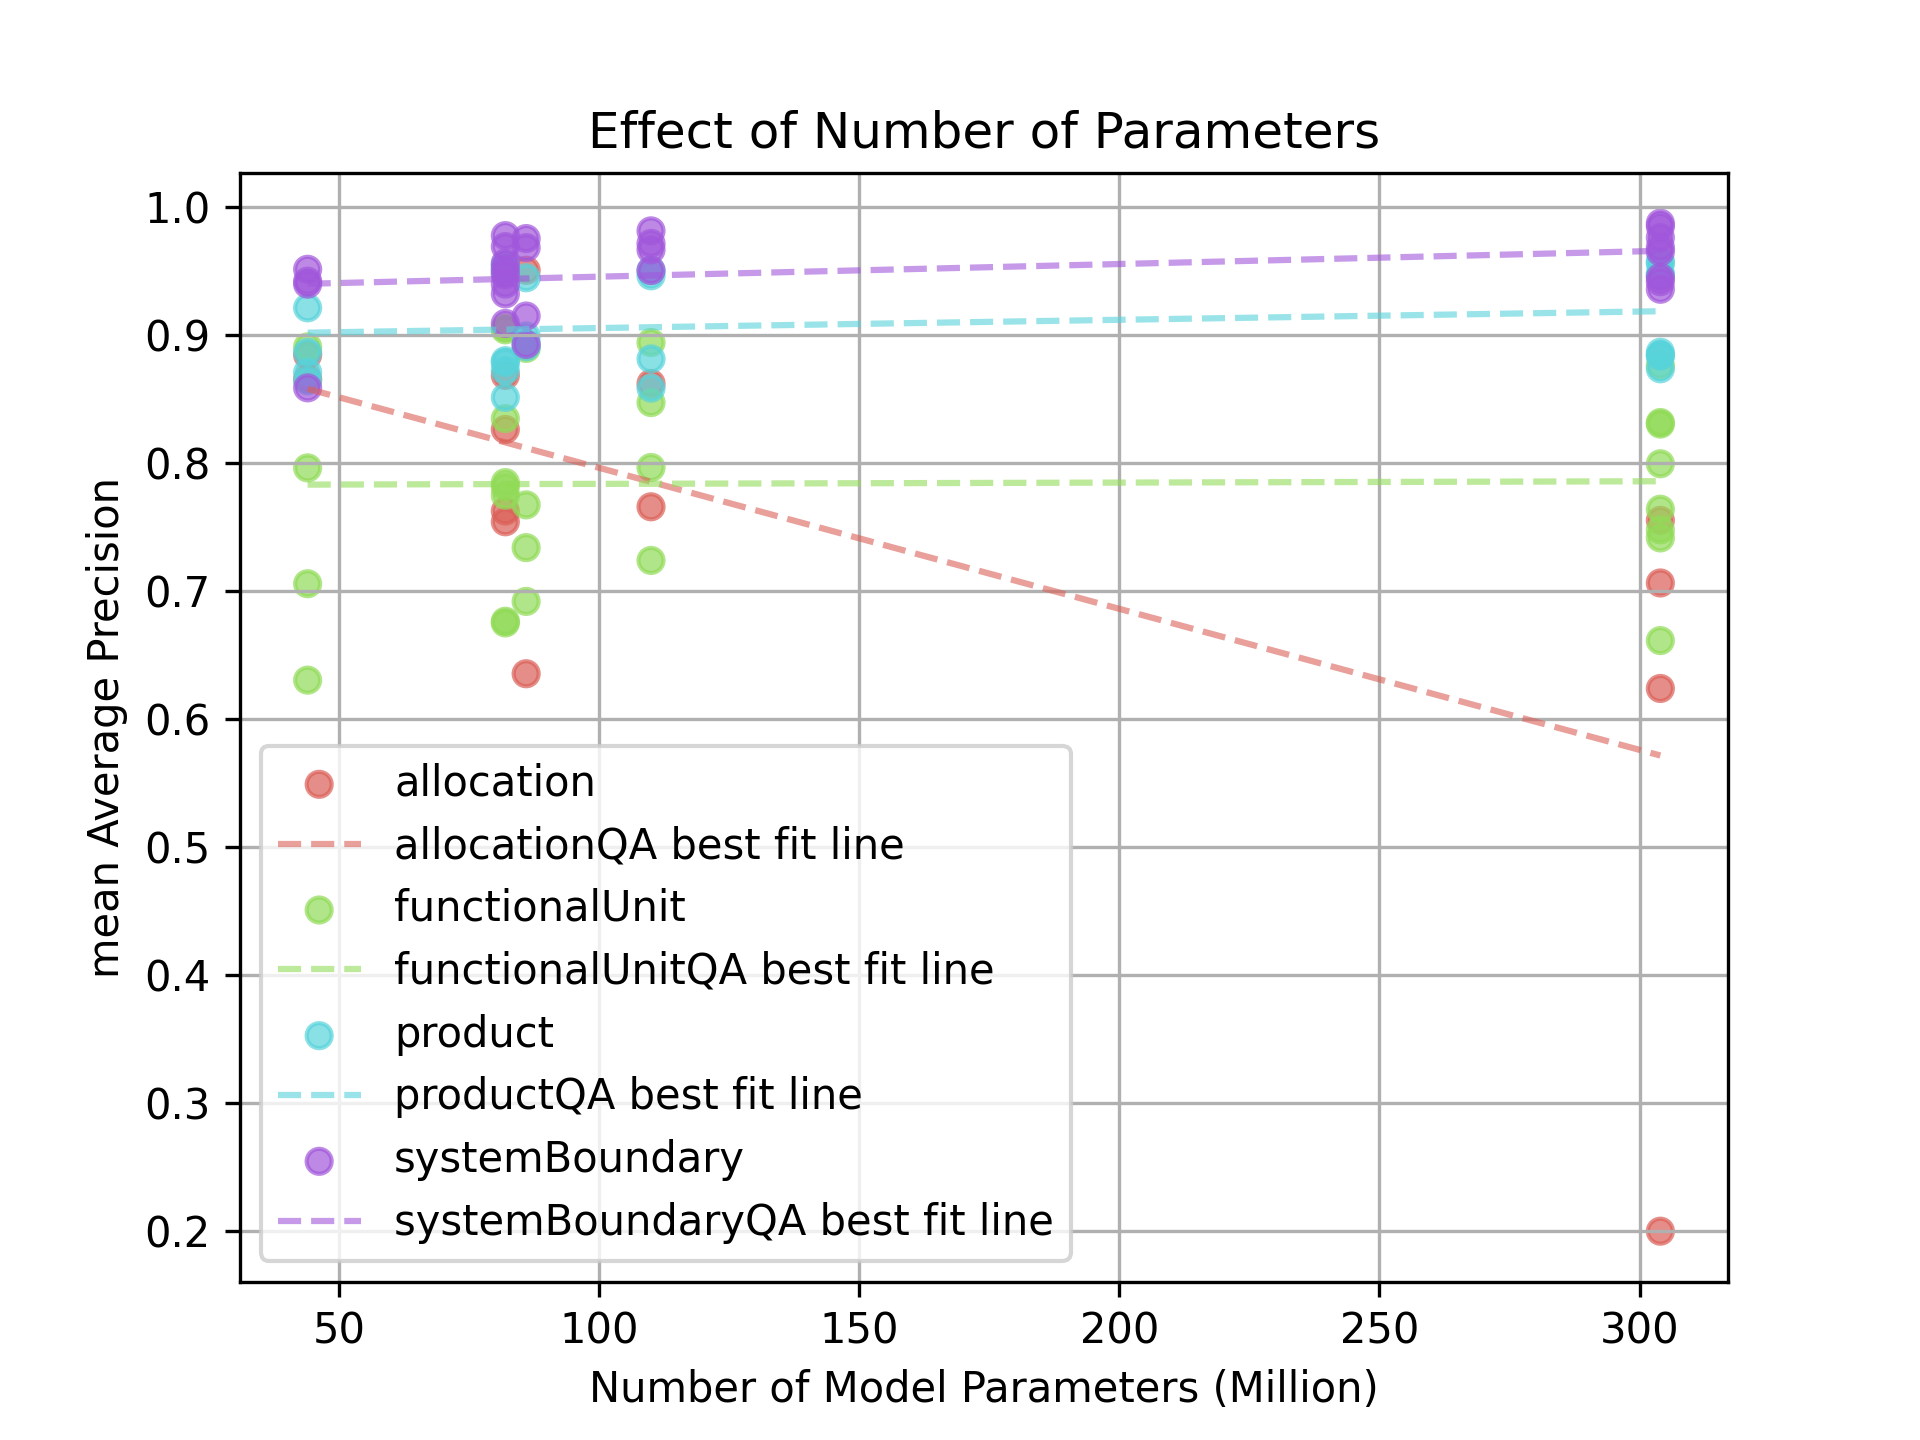
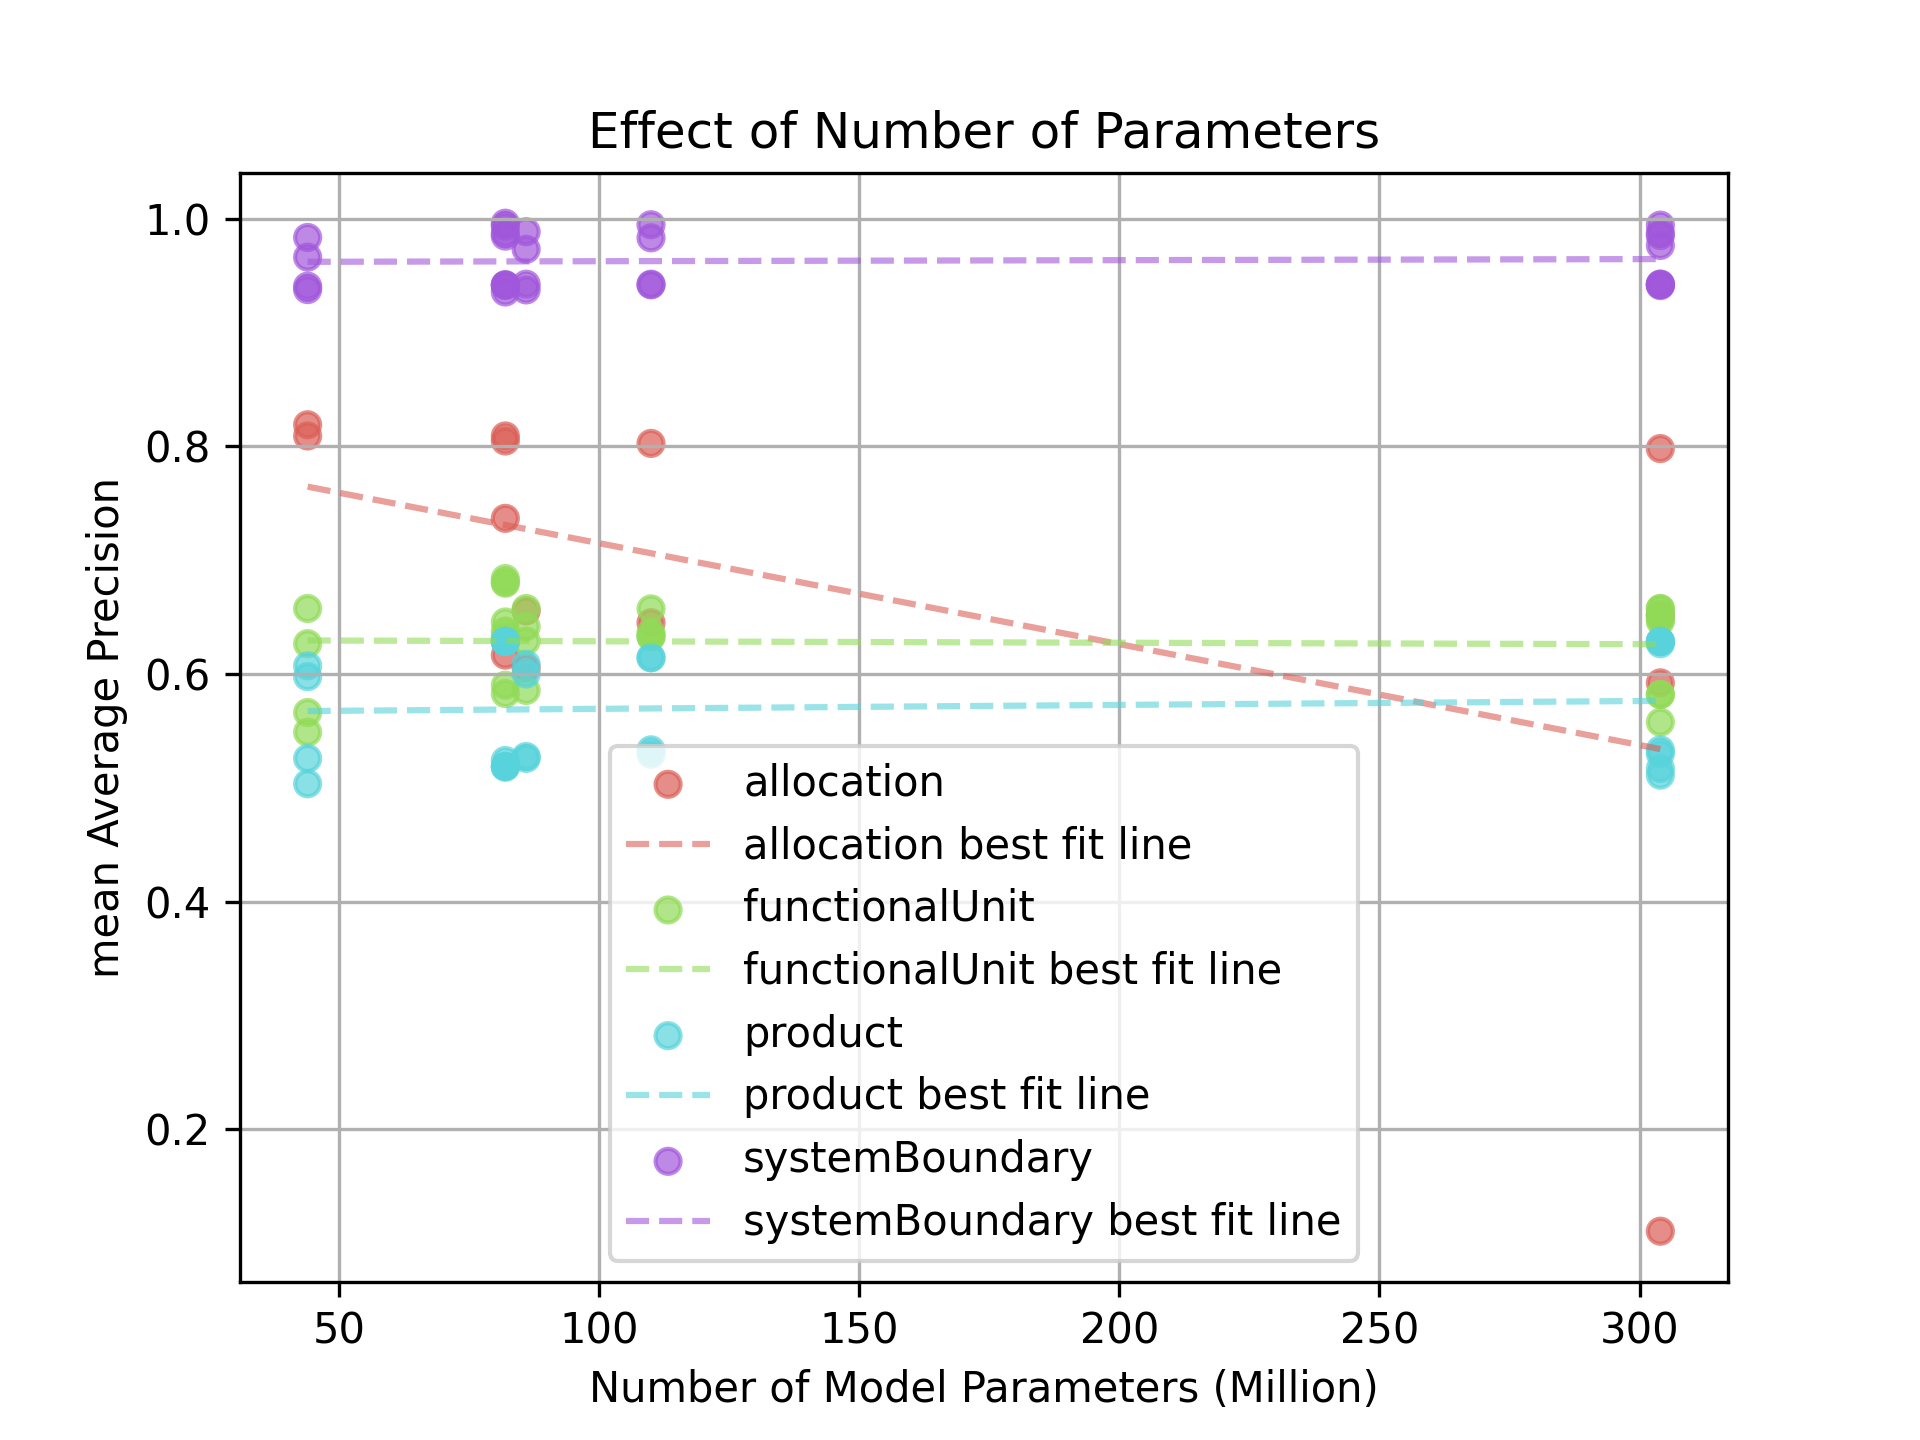
update num params precision plots

diff --git a/data_analysis.py b/data_analysis.py
@@ -23,11 +23,11 @@ def main():
     # prediction_threshold()
 
     # plot number of labels versus precision for each of the four categories
-    label_precision()
-    #parameter_precision()
+    # label_precision()
+    # parameter_precision()
 
     # collate errors for each dataset based on RAG
-    #collect_rag_error_rates()
+    collect_rag_error_rates()
 
     # identify occurence of errors and the extent to which models and ground truths agree
     #inter_reviewer_alignment()
@@ -73,7 +73,6 @@ def prediction_threshold():
         :return: N/A
         """
     root_directory = Path("./data/qa_dataset/results")
-    mAP_df = pd.DataFrame()
     mWP_df = pd.DataFrame()
     mWP_csv_df = pd.DataFrame()
 
@@ -97,23 +96,6 @@ def prediction_threshold():
         results_df["RAG"] = rag
         # mAP_results_df = results_df.copy(deep=True)
         mWP_results_df = results_df.copy(deep=True)
-
-        # # store calculations in lists
-        # mAP_scores = []
-        # preds_logits = data['logits'].apply(
-        #     lambda x: [(1 / (1 + np.exp(-item))) for item in x])
-        # preds_logits = np.array(preds_logits.tolist())
-        #
-        # # if there are no positive class in y_true, then precision is undefined and not included in the mean calculation
-        # for i in range(len(ground_truth[0])):
-        #     if max(ground_truth[:, i]) > 0:
-        #         ap = average_precision_score(ground_truth[:, i], preds_logits[:, i])
-        #     else:
-        #         ap = np.nan
-        #     mAP_scores.append(ap)
-        # mAP_results_df["mAP"] = np.nanmean(mAP_scores)
-        # # assign data to appropriate dataframe if there is data
-        # mAP_df = pd.concat([mAP_df, mAP_results_df]).copy(deep=True)
 
         # calculate effects of precision threshold for the BERT model in no RAG
         P_results = []
@@ -521,54 +503,15 @@ def collect_rag_error_rates():
     recalculated = pd.DataFrame()
 
     # Use rglob to recursively find all files matching the pattern
-    for file_path in root_directory.rglob('errors.csv'):
-        rag = "no rag" if "no" in str(file_path).split("_") else "rag"
-        dataset_type = "original" if "original" in str(file_path).split("_") else "recalculated"
-
-        # read in data and extract label precision, dataset name, and model name
-        data = pd.read_csv(file_path)
-        language_model = "/".join(str(file_path).split("\\")[4:6])
-        data["model"] = language_model
-        dataset_name = str(file_path).split("\\")[3].split("_")[-1]
-        data["dataset"] = dataset_name
-        data["dataset_type"] = dataset_type
-        data["rag"] = rag
+    for file_path in root_directory.rglob('predictions.csv'):
+        df = get_label_precision(file_path)
 
         # assign data to appropriate dataframe if there is data
-        if len(data) > 0:
-            if dataset_type == "original":
-                original = pd.concat([original, data])
-            elif dataset_type == "recalculated":
-                recalculated = pd.concat([recalculated, data])
-
-    # build histograms for frequency of sample errors
-    # for i in [original, recalculated]:
-    #     # get the first indication of the frequency of error
-    #     counts = i[['sample_index', 'dataset', 'rag']].value_counts().reset_index()
-    #
-    #     # pivot the dataframe
-    #     counts = counts.pivot(columns=["dataset", "rag"], values="count")
-    #
-    #     # get colors
-    #     cmap = cm.get_cmap('tab20')
-    #     colors_rgba = [cmap(j) for j in range(20)]
-    #     colors_hex = [matplotlib.colors.to_hex(c) for c in colors_rgba]
-    #
-    #     # plot df
-    #     counts.plot.hist(
-    #         bins=7,
-    #         stacked=True,
-    #         color=colors_hex,
-    #         title='Stacked Histogram by Category (Pivoted Data)'
-    #     )
-    #
-    #     plt.title("Histogram of Sample Data")
-    #     plt.xlabel("Number of Models in Which a Sample is Labeled Incorrectly")
-    #     plt.ylabel("Frequency")
-    #
-    #     plt.savefig("data/qa_dataset/results/" + str(i["dataset_type"].unique()[0]) +".png", dpi=300)
-    #     plt.show()
-    #     print("dataset precision plot saved")
+        if len(df) > 0:
+            if df["dataset_type"].unique()[0] == "original":
+                original = pd.concat([original, df])
+            elif df["dataset_type"].unique()[0] == "recalculated":
+                recalculated = pd.concat([recalculated, df])
 
     # save data
     original.to_csv("./data/qa_dataset/results/all_errors_original.csv")
@@ -619,50 +562,29 @@ def parameter_precision():
     Identify how mAP varies with the number of parameters in the LLM (millions)
     :return: .png file with results
     """
-    root_directory = Path("./data/qa_dataset/results")
-    df_list = []
+    model_parameters = {"model": ["climatebert/distilroberta-base-climate-f",
+                                  "ESGBERT/EnvironmentalBERT-base",
+                                  "FacebookAI/roberta-large",
+                                  "google-bert/bert-base-uncased",
+                                  "microsoft/deberta-v3-base",
+                                  "microsoft/deberta-v3-large",
+                                  "microsoft/deberta-v3-small"],
+                        "parameters": [82.4, 82.8, 304, 110, 86, 304, 44]}
 
-    model_parameters = {
-        "climatebert/distilroberta-base-climate-f": 82.4,
-        "ESGBERT/EnvironmentalBERT-base": 82.8,
-        "FacebookAI/roberta-large": 304,
-        "google-bert/bert-base-uncased": 110,
-        "microsoft/deberta-v3-base": 86,
-        "microsoft/deberta-v3-large": 304,
-        "microsoft/deberta-v3-small": 44
-    }
-
-    # Use rglob to recursively find all files matching the pattern
-    for file_path in root_directory.rglob('test_metrics.csv'):
-        rag = "" if "no" in str(file_path).split("_") else "_rag"
-        dataset_type = "original" if "original" in str(file_path).split("_") else "recalculated"
-        dataset_category = dataset_type + rag
-
-        # read in data and extract label precision, dataset name, and model name
-        data = pd.read_csv(file_path, header=None)
-        language_model = "/".join(str(file_path).split("\\")[4:6])
-        print(language_model)
-        data = data[data[0].str.contains("Mean Average Precision")]
-        data["mAP"] = data[1]
-        data["model"] = language_model
-        data["parameters"] = model_parameters[language_model]
-        dataset_name = str(file_path).split("\\")[3].split("_")[-1]
-        data["dataset"] = dataset_name
-        data["category"] = dataset_category
-        data = data[["model", "dataset", "parameters", "mAP", "category"]]  # clean columns
-        df_list.append(data)
-
-    df = pd.concat(df_list)
+    df = pd.read_csv(f"./data/qa_dataset/results/mWP.csv")
+    df = pd.melt(df, id_vars=['dataset', 'dataset_type', 'RAG'], var_name='model', value_name='mWP')
+    mp = pd.DataFrame(model_parameters)
+    df = pd.merge(df, mp, "left", on="model")
 
     # plotting parameters vs mAP
     fig, ax = plt.subplots()
-    df['mAP'] = df['mAP'].astype(float)  # handle nan
+    df['mWP'] = df['mWP'].astype(float)  # handle nan
     df['parameters'] = df['parameters'].astype(int)
     df = map_color(df, "dataset")
     for dataset in df["dataset"].unique():
         plotting_df = df[df["dataset"] == dataset]
         x = plotting_df['parameters']
-        y = plotting_df['mAP']
+        y = plotting_df['mWP']
         # plot scatter plot
         ax.scatter(x, y, c=plotting_df["color"], label=dataset.strip("QA"), alpha=0.7)
 
